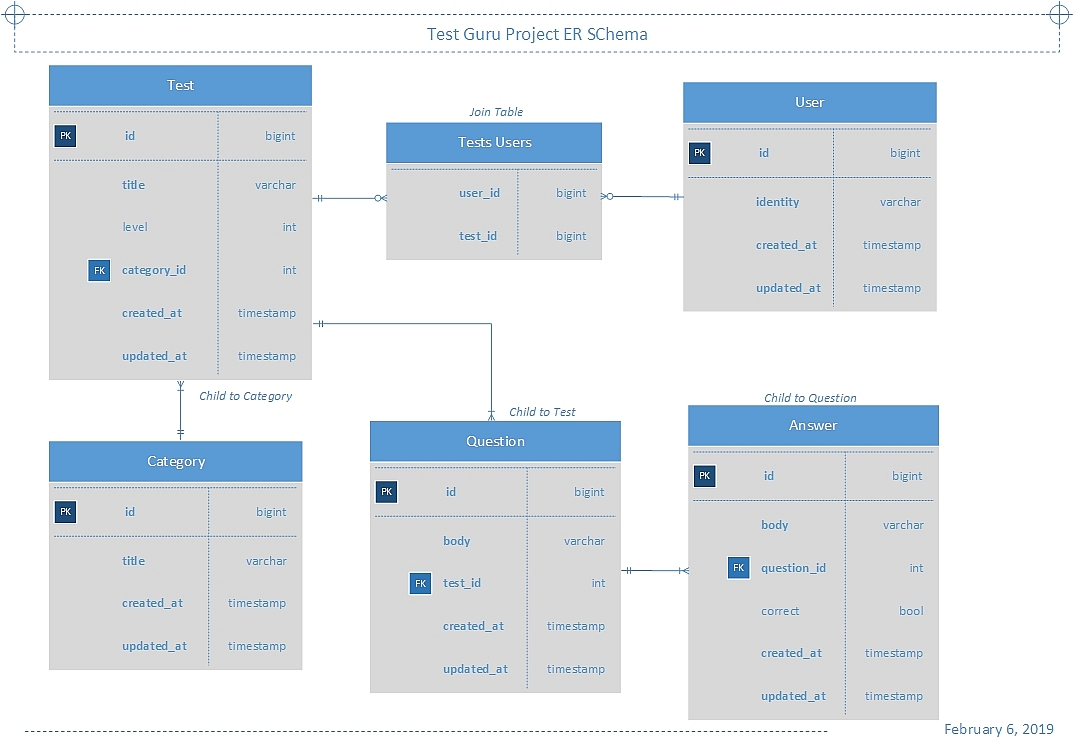
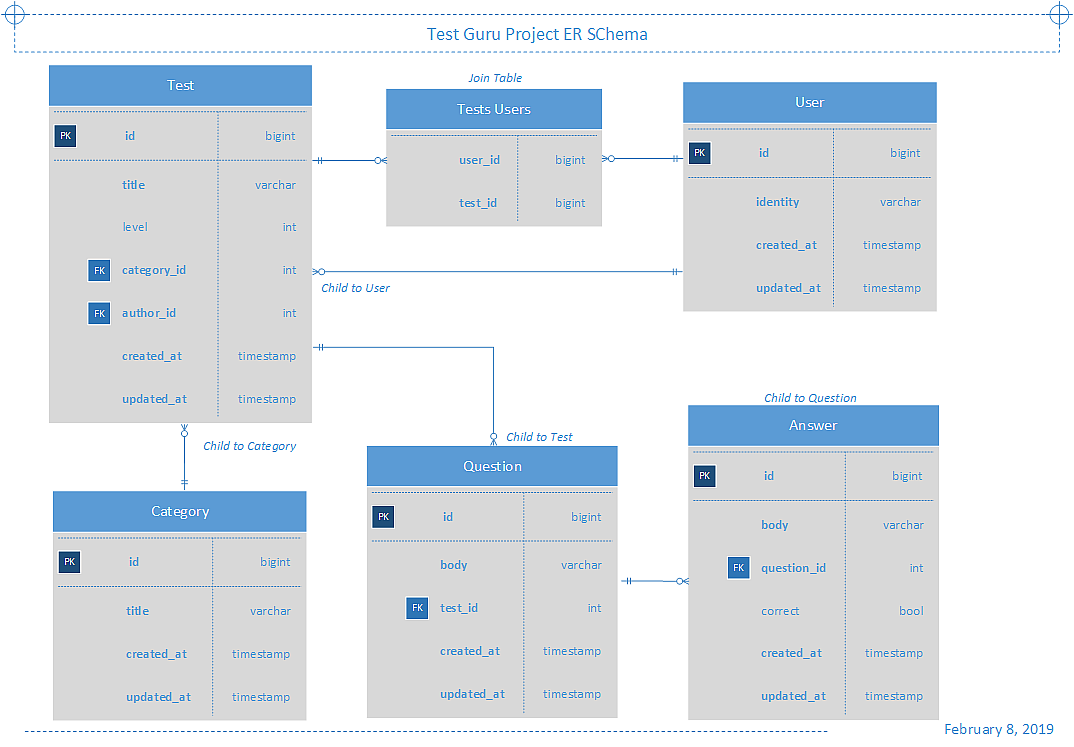
Lesson Associations_Refined#1

diff --git a/db/seeds.rb b/db/seeds.rb
@@ -13,14 +13,15 @@ Test.destroy_all
 Category.delete_all
 User.destroy_all
 
+
 ActiveRecord::Base.connection.tables.each do |t|
   ActiveRecord::Base.connection.reset_pk_sequence!(t)
 end
 
 users = User.create([
+  { identity: "Administrator" },
   { identity: "Ivan Dyakovich" },
-  { identity: "Dave Choker" },
-  { identity: "Chris Malt" }
+  { identity: "Dave Choker" }
 ])
 
 categories = Category.create([
@@ -30,11 +31,11 @@ categories = Category.create([
 ])
 
 tests = Test.create([
-  { title: "Ruby Language", level: 3, category_id: categories[1].id },
-  { title: "PHP Language", level: 3, category_id: categories[1].id },
-  { title: "HTML", level: 2, category_id: categories[0].id },
-  { title: "JavaScript", level: 3, category_id: categories[0].id },
-  { title: "BigData Platforms", level: 1, category_id: categories[2].id }
+  { title: "Ruby Language", level: 3, category_id: categories[1].id, author_id: User.first.id },
+  { title: "PHP Language", level: 3, category_id: categories[1].id, author_id: User.first.id },
+  { title: "HTML", level: 2, category_id: categories[0].id, author_id: User.first.id },
+  { title: "JavaScript", level: 3, category_id: categories[0].id, author_id: User.first.id },
+  { title: "BigData Platforms", level: 1, category_id: categories[2].id, author_id: User.first.id }
 ])
 
 questions = Question.create([

diff --git a/db/schema.rb b/db/schema.rb
@@ -10,7 +10,7 @@
 #
 # It's strongly recommended that you check this file into your version control system.
 
-ActiveRecord::Schema.define(version: 2019_02_06_111123) do
+ActiveRecord::Schema.define(version: 2019_02_08_101508) do
 
   # These are extensions that must be enabled in order to support this database
   enable_extension "plpgsql"
@@ -42,6 +42,7 @@ ActiveRecord::Schema.define(version: 2019_02_06_111123) do
     t.integer "category_id"
     t.datetime "created_at", null: false
     t.datetime "updated_at", null: false
+    t.integer "author_id"
   end
 
   create_table "tests_users", id: false, force: :cascade do |t|
@@ -59,4 +60,5 @@ ActiveRecord::Schema.define(version: 2019_02_06_111123) do
   add_foreign_key "answers", "questions"
   add_foreign_key "questions", "tests"
   add_foreign_key "tests", "categories"
+  add_foreign_key "tests", "users", column: "author_id"
 end

diff --git a/app/models/test.rb b/app/models/test.rb
@@ -2,6 +2,7 @@ class Test < ApplicationRecord
   has_and_belongs_to_many :users
   has_many :questions
   belongs_to :category
+  belongs_to :author, class_name: "User"
 
   def self.pick_by_category(title)
     Test.joins(:category).where("categories.title = ?", title).pluck(:title).sort.reverse

diff --git a/app/models/user.rb b/app/models/user.rb
@@ -1,5 +1,6 @@
 class User < ApplicationRecord
   has_and_belongs_to_many :tests
+  has_many :created_tests, class_name: "Test", foreign_key: "author_id"
 
   def pick_by_level(difficulty_level)
     tests.where(level: difficulty_level)

diff --git a/db/migrate/20190208101508_add_foreign_key_to_tests.rb b/db/migrate/20190208101508_add_foreign_key_to_tests.rb
@@ -1,0 +1,6 @@
+class AddForeignKeyToTests < ActiveRecord::Migration[5.2]
+  def change
+    add_column(:tests, :author_id, :integer)
+    add_foreign_key(:tests, :users, column: :author_id)
+  end
+end
